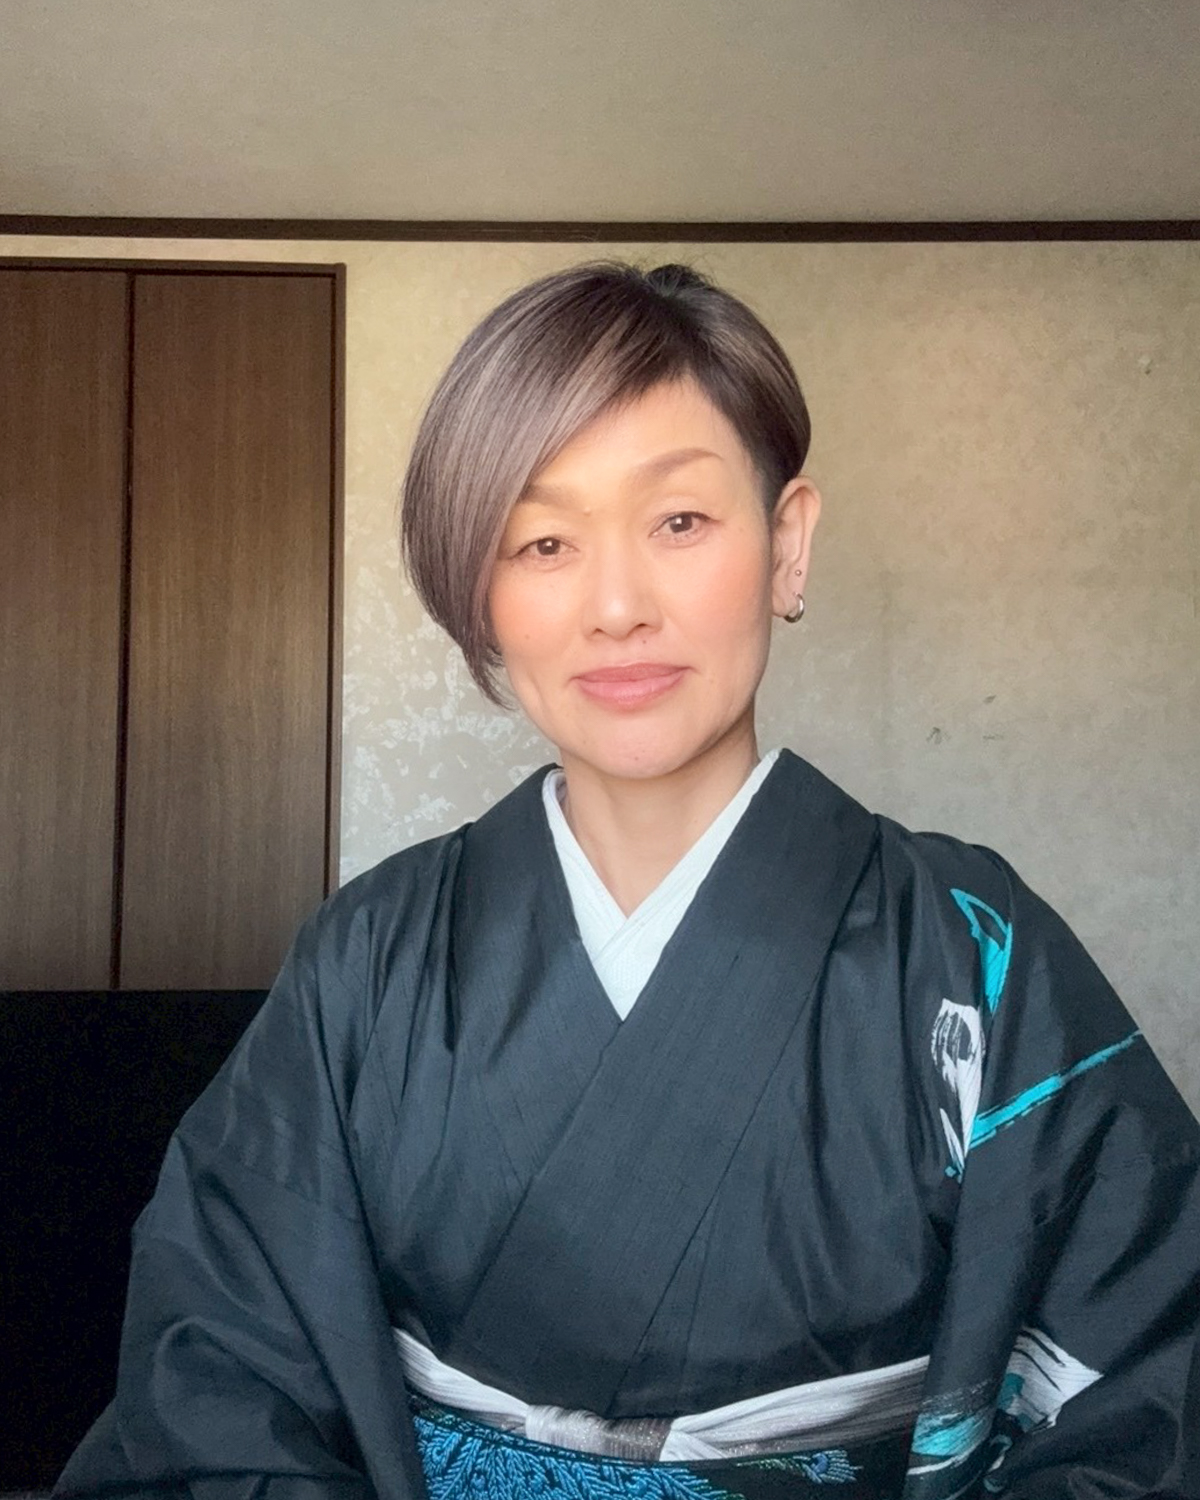
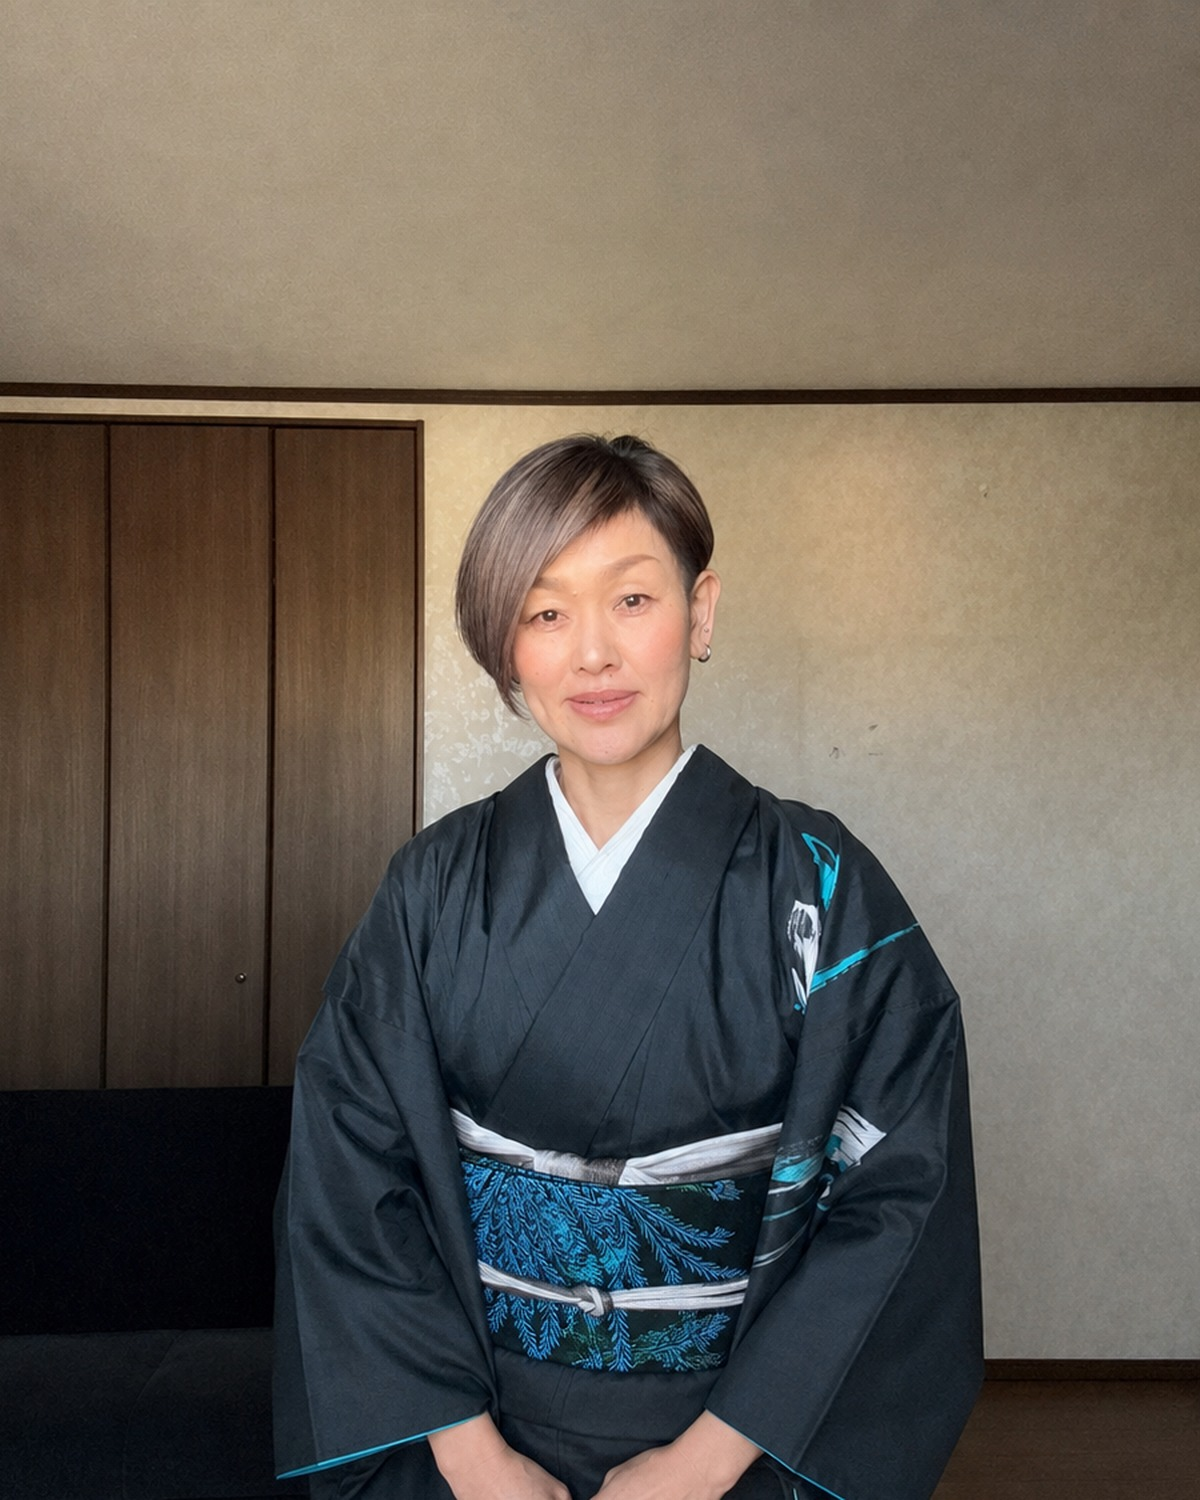
明日香さん写真のトリミングを調整

diff --git a/index.html b/index.html
@@ -286,7 +286,7 @@
                 <div class="flex flex-col md:flex-row">
                     <!-- Photo Column -->
                     <div class="md:w-5/12 relative h-96 md:h-auto">
-                        <img src="images/teacher-asuka.jpg?v=260619photo"
+                        <img src="images/teacher-asuka.jpg?v=260621asuka"
                              alt="小池明日香先生"
                              class="absolute inset-0 w-full h-full object-cover object-top">
                     </div>
